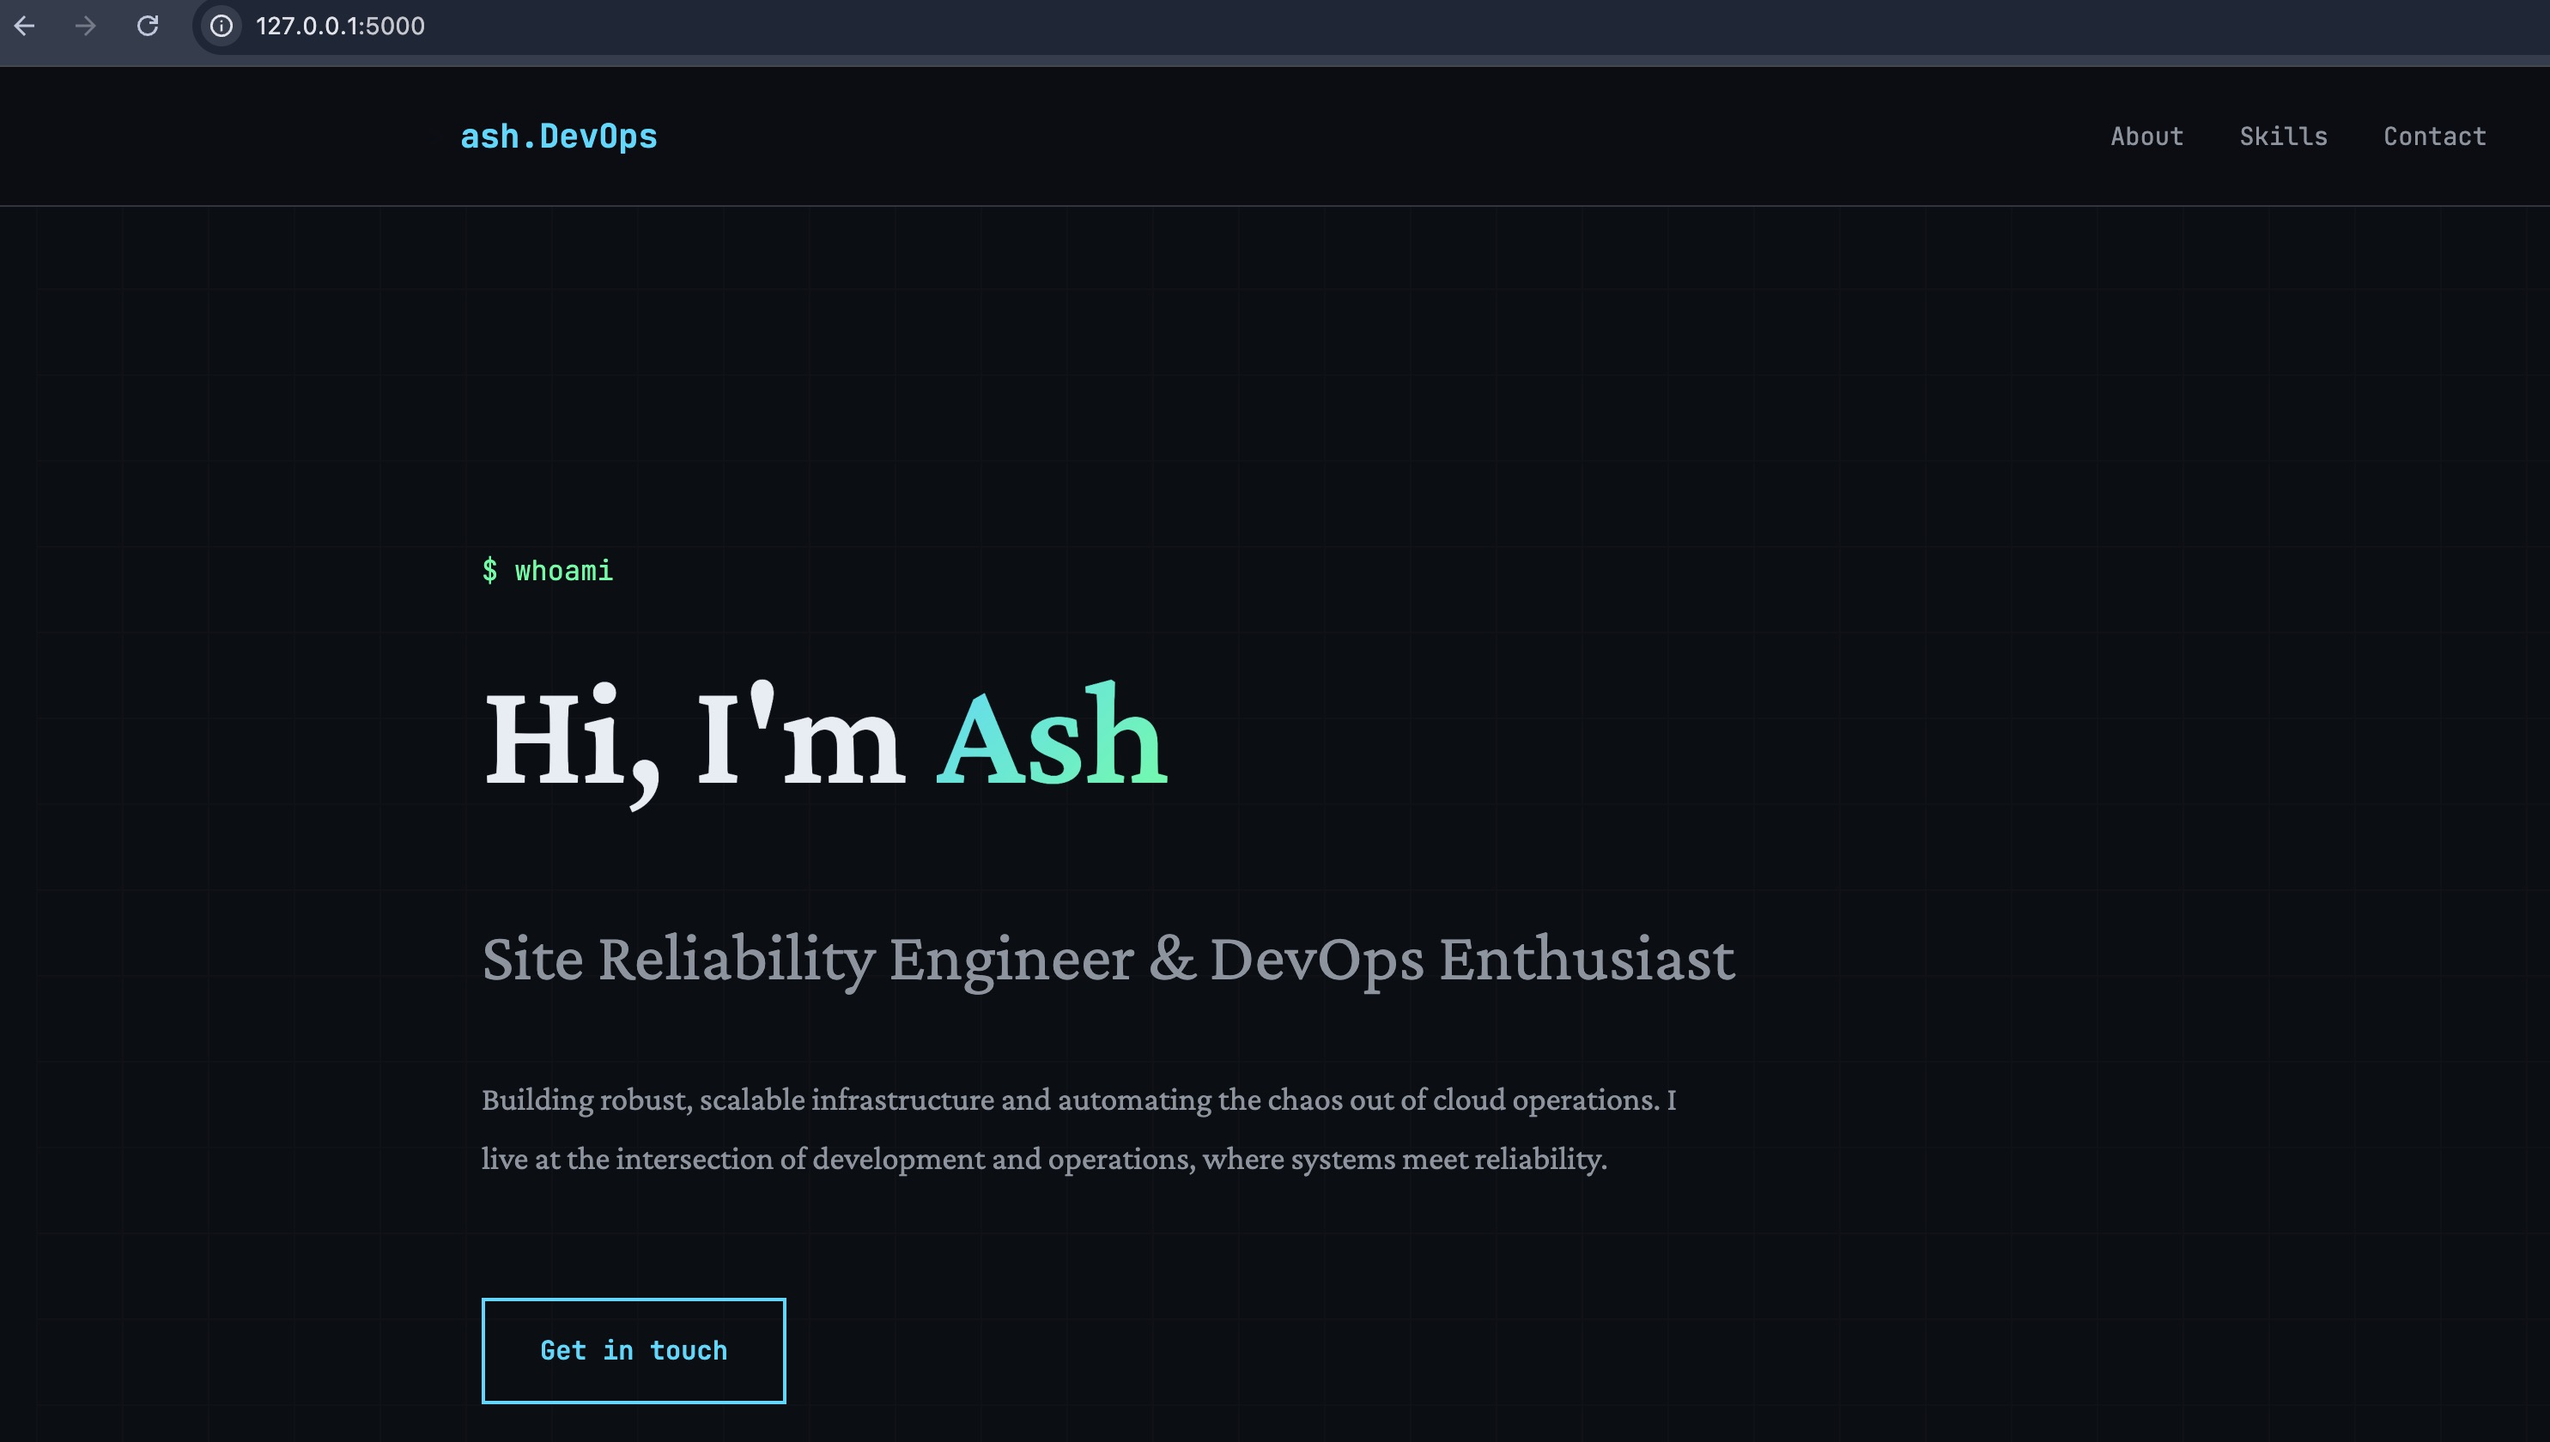
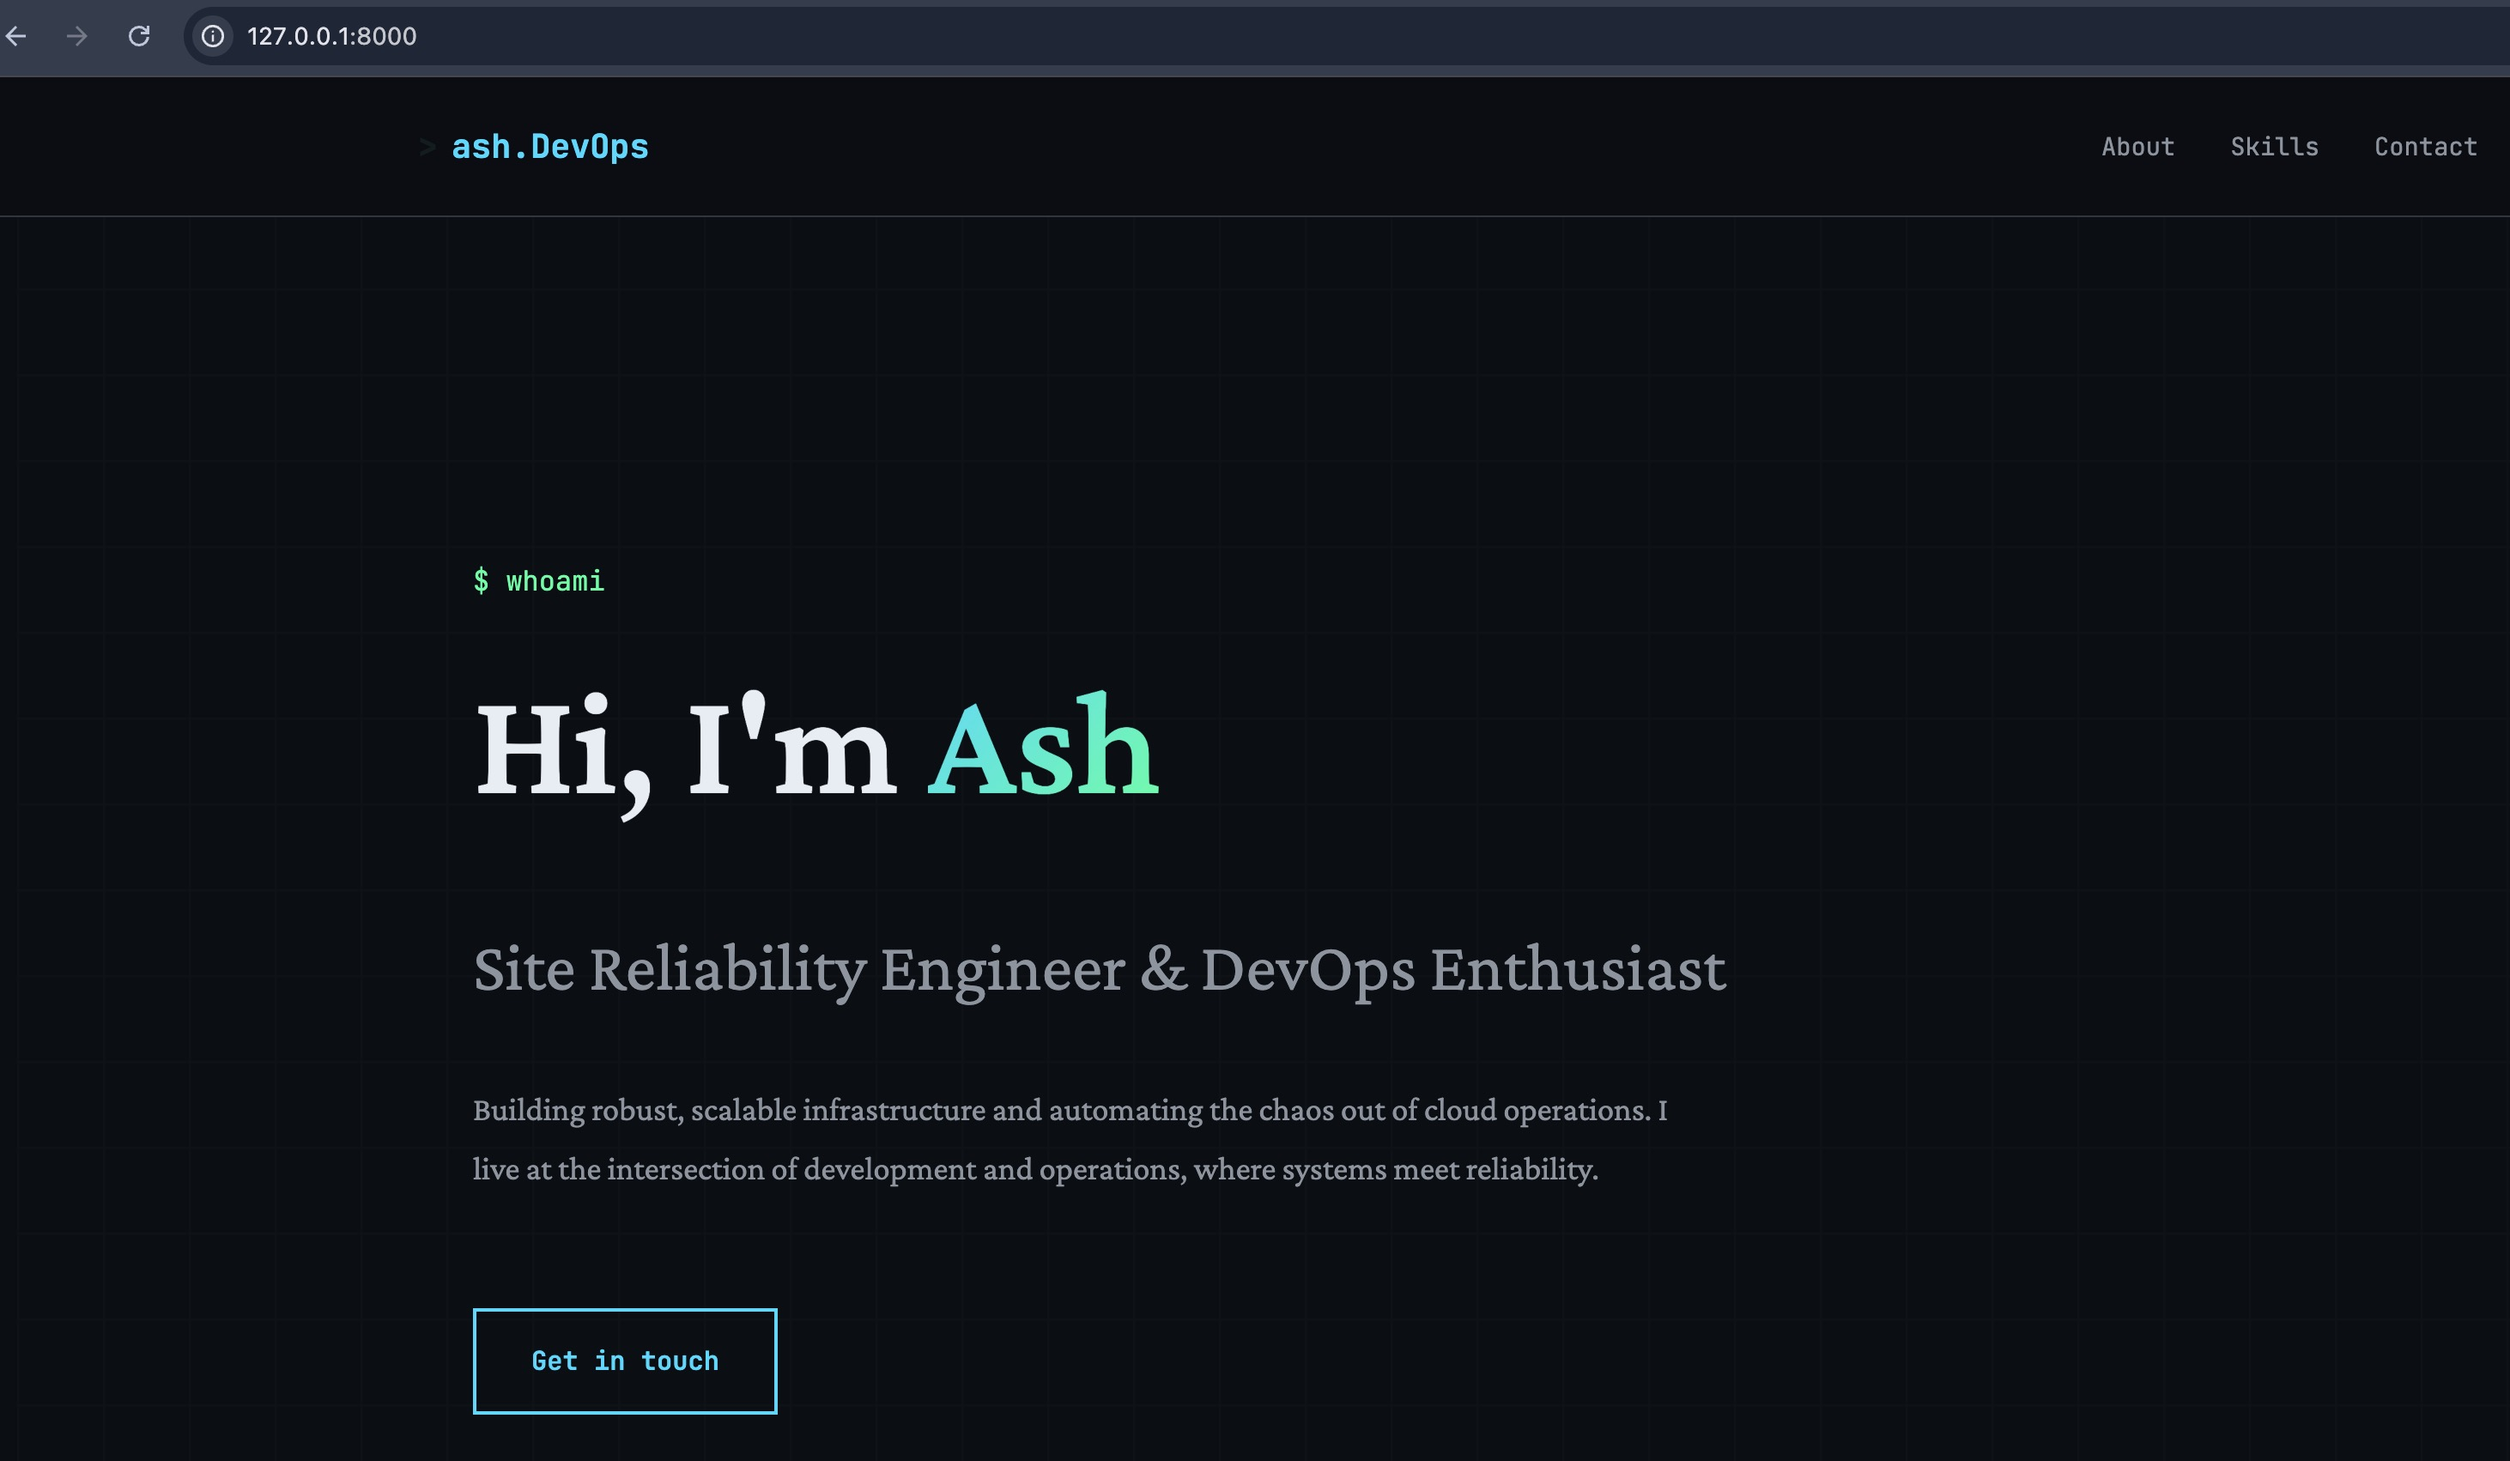
updates

diff --git a/Project1-ash-portfolio/README.md b/Project1-ash-portfolio/README.md
@@ -63,7 +63,8 @@ python3 app.py
 
 6. Access the site at `http:your-public-ip:8000`
 
-![Flask with :8000 port demo:](./ash-web/images/local_setup_test.jpg)
+
+![Flask on port :8000](./ash-web/images/using_flask_on_8000.jpg)
 
 #### Use Nginx as reverse proxy server (Production grade)
 
